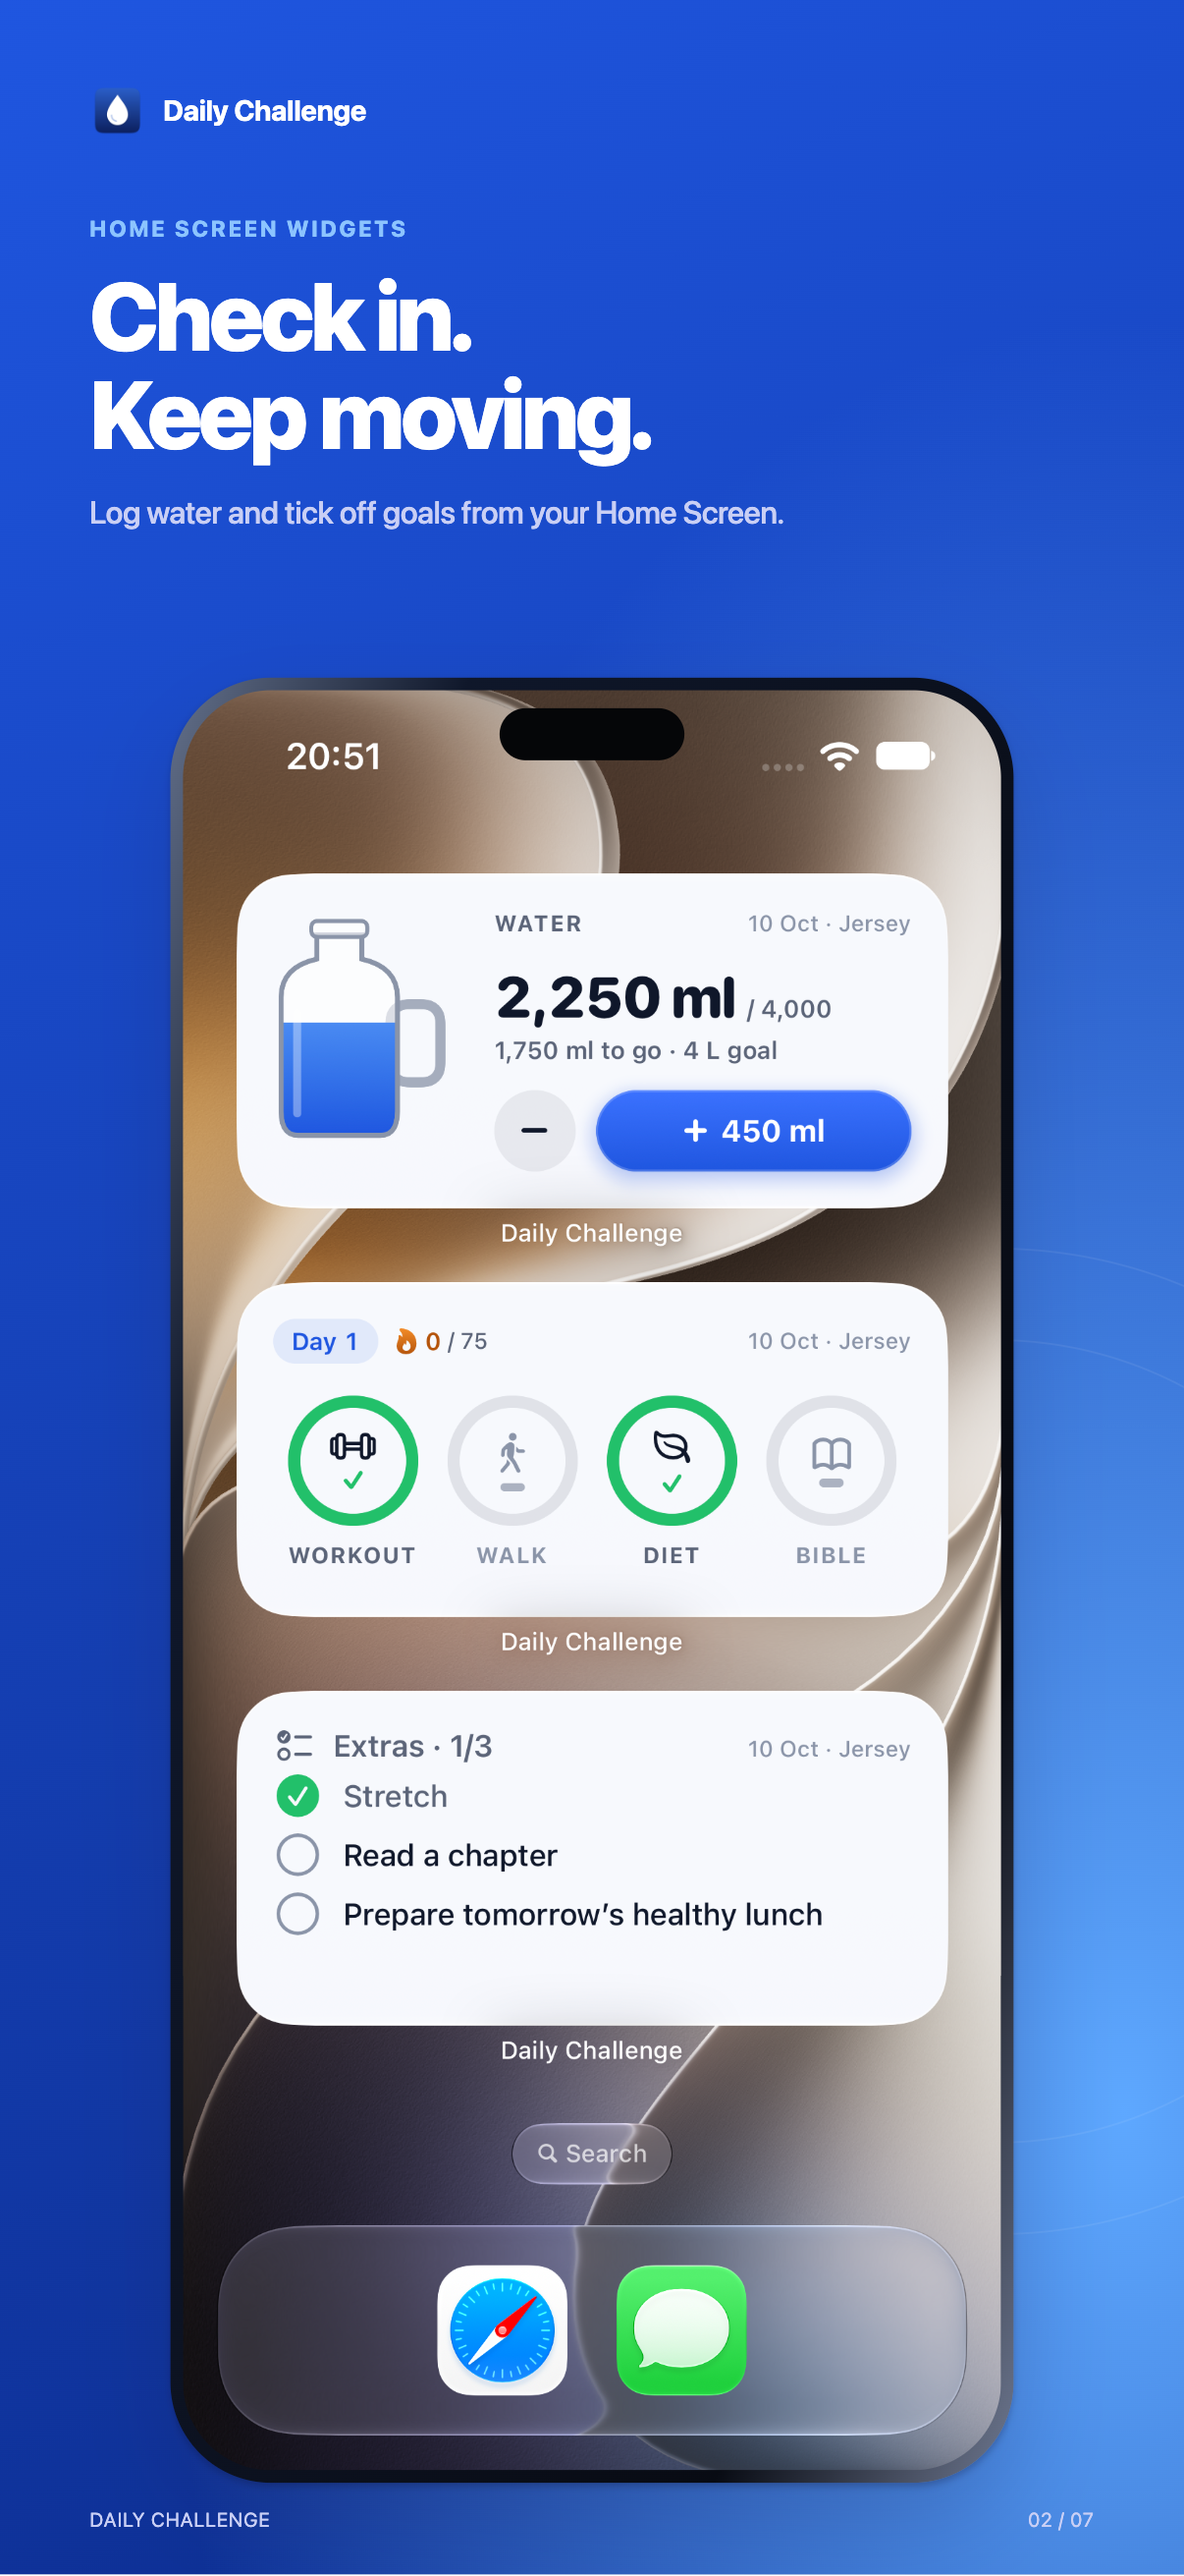
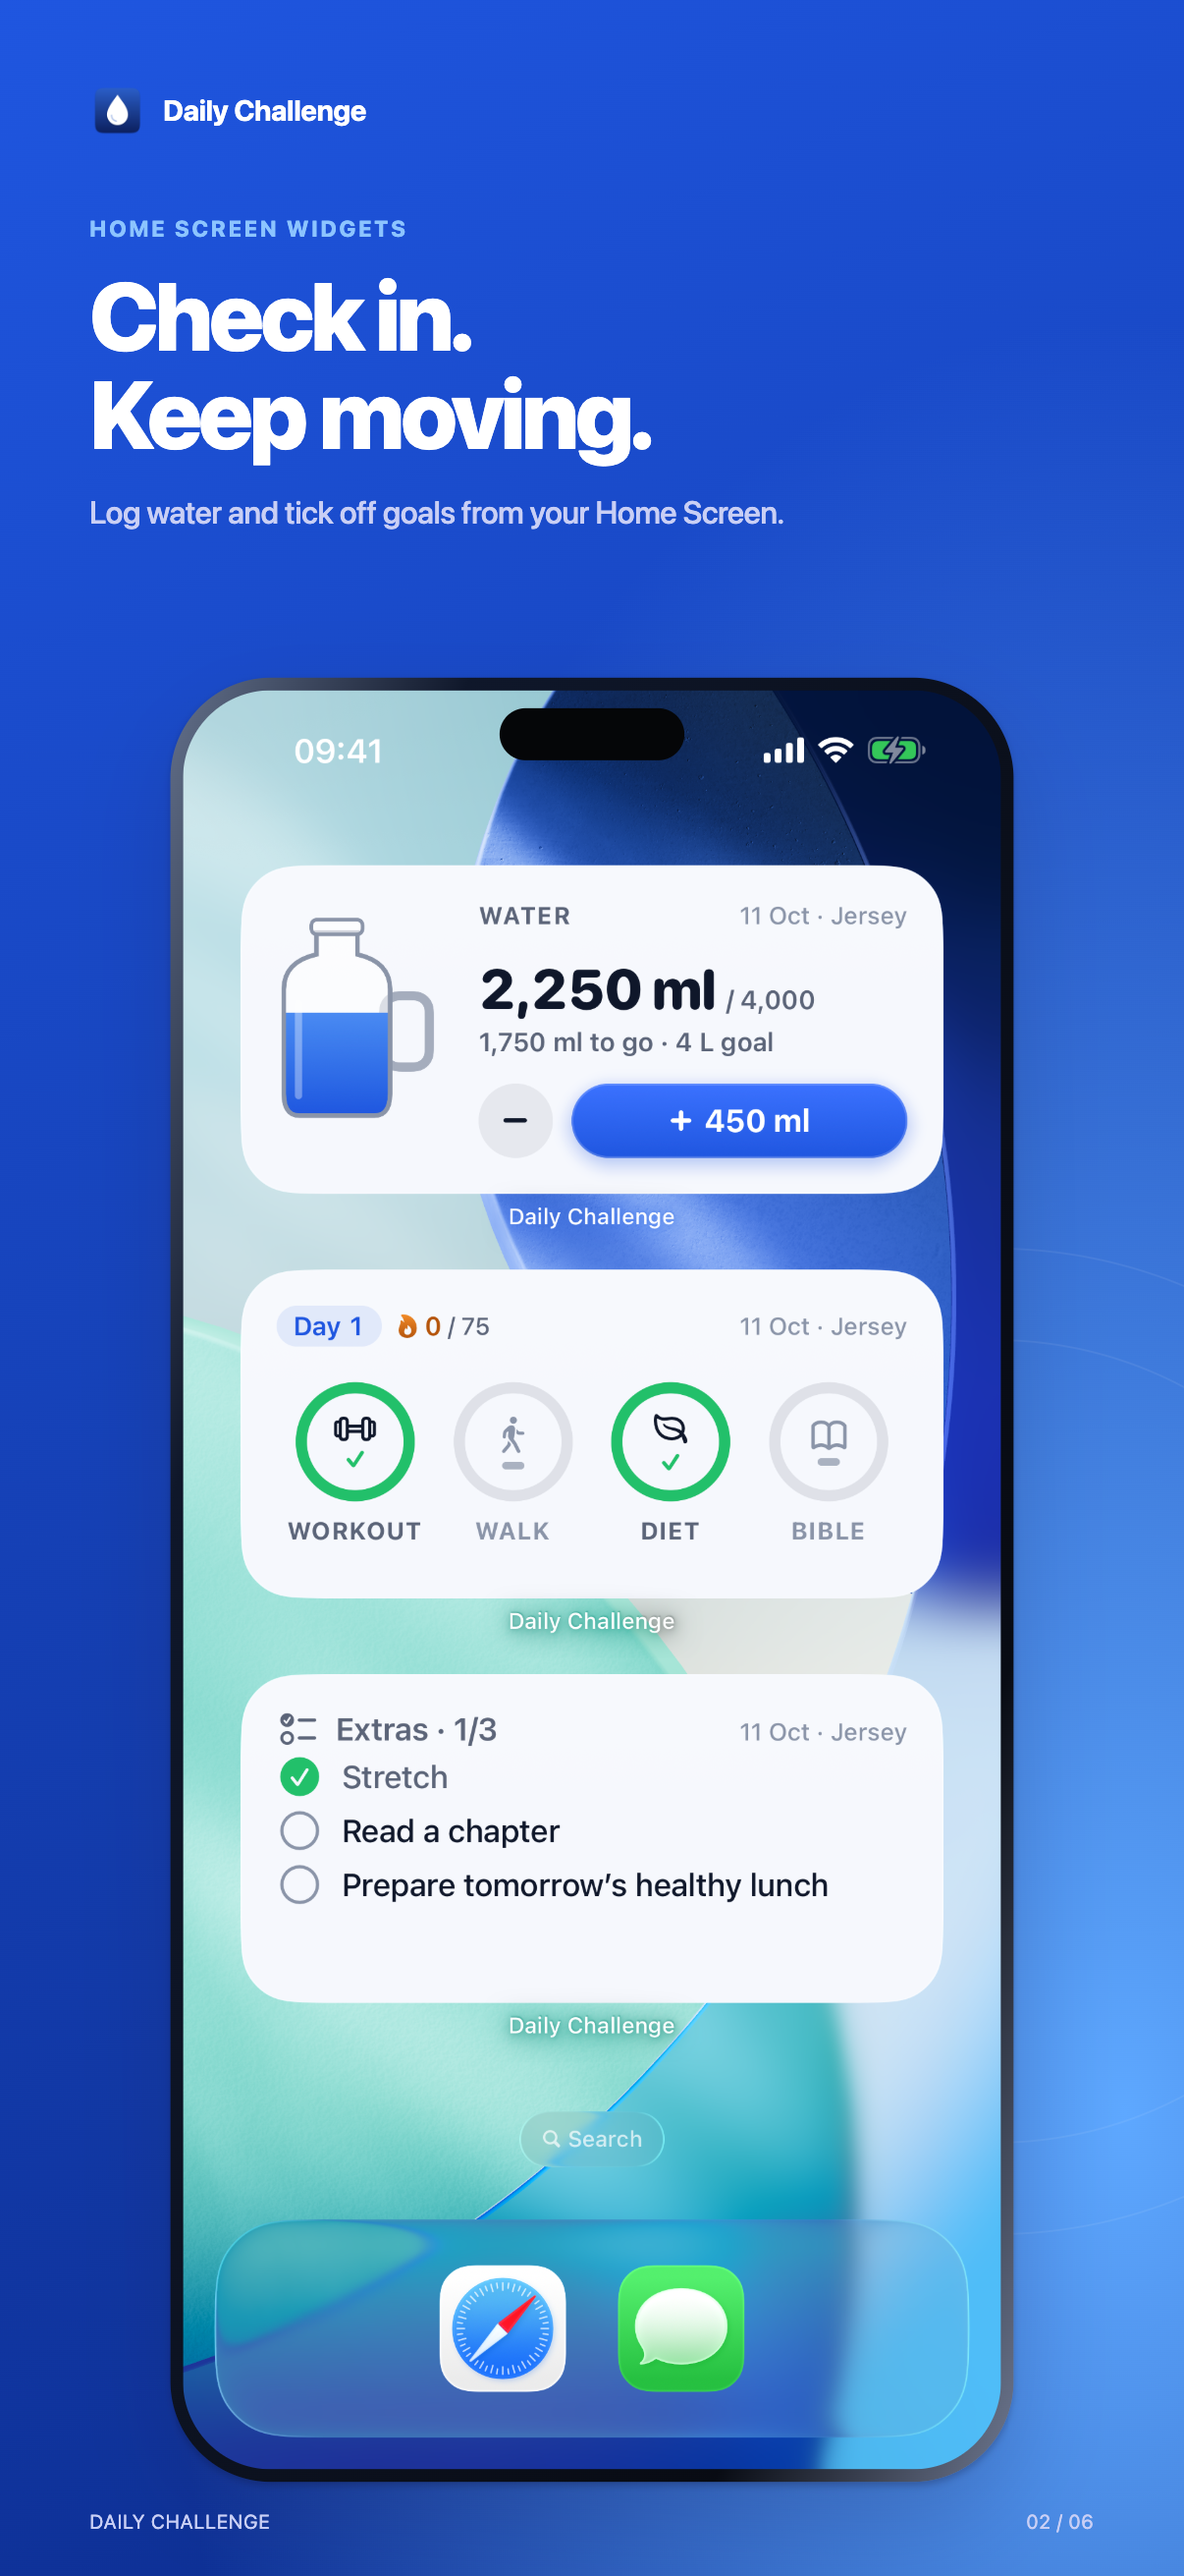
Finalise six App Store marketing frames from clean raw captures

Changed region(s): [[0.1534, 0.2471, 0.859, 0.9886], [0.8897, 0.9577, 0.9204, 0.9886]]

diff --git a/docs/screenshots/app-store/marketing/template.html b/docs/screenshots/app-store/marketing/template.html
@@ -29,7 +29,7 @@ h1 span:last-child { color:#1f56e0; }
 .zoom { position:absolute; left:90px; width:1140px; overflow:hidden; border:3px solid #fff; border-radius:54px; box-shadow:0 24px 80px #1e285a30; background:#f6f8fd; }
 .zoom img { position:absolute; width:__ZOOM_WIDTH__px; left:__ZOOM_LEFT__px; top:__ZOOM_TOP__px; max-width:none; }
 .zoom.water { top:1500px; height:670px; }
-.zoom.extras { top:1530px; height:700px; }
+.zoom.extras { top:1530px; height:665px; }
 .zoom-note { position:absolute; left:100px; top:2550px; font-size:31px; color:#5b6478; font-weight:600; }
 .footer { position:absolute; bottom:48px; left:100px; right:100px; display:flex; justify-content:space-between; font-size:22px; color:#5b6478; letter-spacing:1px; }
 .blue .footer,.dark .footer { color:#c9cff5; }
@@ -40,5 +40,5 @@ h1 span:last-child { color:#1f56e0; }
 <div class="copy"><div class="tag">__TAG__</div><h1>__HEADLINE__</h1><p class="detail">__DETAIL__</p></div>
 <div class="phone __LAYOUT__"><img src="__SOURCE__" alt="Daily Challenge fixture capture"><div class="island"></div></div>
 __ZOOM__
-<div class="footer"><span>DAILY CHALLENGE</span><span>__NUMBER__ / 07</span></div>
+<div class="footer"><span>DAILY CHALLENGE</span><span>__NUMBER__ / __TOTAL__</span></div>
 </div></html>

diff --git a/scripts/render-app-store-marketing.py b/scripts/render-app-store-marketing.py
@@ -46,7 +46,7 @@ def main():
             with Image.open(source) as im:
                 sw, sh = im.size
             zoom_width = 1140 / .92
-            zoom_top = -(sh / sw) * zoom_width * (.32 if frame['layout'] == 'water' else .55)
+            zoom_top = -(sh / sw) * zoom_width * (.285 if frame['layout'] == 'water' else .53)
             zoom = ''
             if frame['layout'] in ('water', 'extras'):
                 zoom = ('<div class="zoom ' + frame['layout'] + '"><img src="__SOURCE__" '
@@ -59,7 +59,7 @@ def main():
                       'ZOOM_TOP': zoom_top, 'TAG': html.escape(frame['tag']),
                       'HEADLINE': ''.join('<span>'+html.escape(s)+'</span>' for s in frame['headline']),
                       'DETAIL': html.escape(frame['detail']), 'SOURCE': source.as_uri(),
-                      'ICON': (ROOT/'Resources/AppIcon/icon_1024.png').as_uri(), 'NUMBER': f'{index:02}'}
+                      'ICON': (ROOT/'Resources/AppIcon/icon_1024.png').as_uri(), 'NUMBER': f'{index:02}', 'TOTAL': f'{len(frames):02}'}
             page = template
             # ZOOM first, because its fragment contains the SOURCE placeholder.
             page = page.replace('__ZOOM__', zoom)
@@ -88,7 +88,7 @@ def main():
                              'bounds': bounds.split('\nhelp')[0]})
             print(f'Rendered {size}/{frame["id"]}', flush=True)
         if not args.frame:
-            sheet = Image.new('RGB', (7*280, 660), '#f6f8fd')
+            sheet = Image.new('RGB', (len(frames)*280, 660), '#f6f8fd')
             draw = ImageDraw.Draw(sheet)
             for index, frame in enumerate(frames):
                 with Image.open(directory/(frame['id']+'.png')) as im:

diff --git a/docs/screenshots/app-store/marketing/README.md b/docs/screenshots/app-store/marketing/README.md
@@ -1,6 +1,6 @@
 # App Store marketing screenshots
 
-Seven English (UK) frames, in upload order. Use the numbered PNGs inside
+Six English (UK) frames, in upload order. Use the numbered PNGs inside
 `iphone-6.9/` (1320 × 2868) and `iphone-medium/` (1206 × 2622).
 Contact sheets are for review only; do not upload them as screenshots.
 
@@ -12,12 +12,11 @@ Contact sheets are for review only; do not upload them as screenshots.
 | 04 | Small extras. Less to forget. | Today's extras with the amber Late labels, with enlarged crop |
 | 05 | See your streak grow. | History calendar and streak information |
 | 06 | Your routine. Your look. | Today in Dark appearance |
-| 07 | Five goals. One good day. | All five requirements complete |
 
 The generic 75-day wording refers to this app's five fixed requirements. Extras
 are personal to-dos and do not count towards complete days or streaks. Captions
 make no user-count, testimonial, ranking, medical-result or award claim. The
-optional cross-device/sign-in frame is omitted: the seven frames focus on the
+optional cross-device/sign-in frame is omitted: the six frames focus on the
 phone's daily experience. The app is iPhone-only according to `iOS/project.yml`.
 
 ## Rebuild
@@ -54,7 +53,35 @@ background-height extension for its slightly different aspect ratio.
 
 ## Capture provenance and visual review
 
-Pending final raw-source swap and visual acceptance. See
-[research](../../../app-store-visuals-research.md) for references and the design
-rationale. Final review must cover every PNG in both sizes, not only this file
-or an isolated widget render.
+All inputs now come from `docs/screenshots/app-store/raw/` on `main` at
+`24fb3e5`: real iPhone 17 Pro Max simulator captures on iOS 26.4, synthetic
+fixture data, fixed 9:41 status bar and full signal/battery. The raw capture
+commands and caveats are in `docs/app-store-listing.md` and
+`iOS/scripts/capture-app-store-screenshots.sh`. No account, Keychain, network
+or notification permission was used for these captures. The placed widget
+capture comes from SpringBoard, not an in-process widget render.
+
+Each frame is an independent feature example. The app examples use Day 12,
+while the widget example uses Day 1; their dates differ because the app fixture
+clock is fixed and WidgetKit uses the simulator's date. The gallery makes no
+claim that these examples are one continuous session or a synchronised account.
+The offline fixture's Local only label remains visible and is not relabelled as
+Synced. See [research](../../../app-store-visuals-research.md) for references
+and the design rationale.
+
+Final checks passed on 11 October 2026:
+
+- All twelve PNGs were inspected individually and in both contact sheets at
+  thumbnail size. Headlines, rings, jug, controls and Late labels are legible;
+  the water and extras crops preserve their complete focal content. The native
+  History activity list continues behind its tab bar, as in the raw capture.
+- DOM checks passed for caption overflow and canvas bounds. Export checks passed
+  for the exact dimensions, opaque RGB pixels, six frames per size and all input
+  hashes recorded in `render-manifest.json`.
+- Caption wording and punctuation checks passed. The renderer's Python syntax
+  and `git diff --check` passed. No application code changes are part of this
+  delivery.
+
+The final set has six frames. It covers all required features with the raw
+captures now available on main. Re-render and repeat the visual review whenever
+captions, inputs or layout change.

diff --git a/docs/app-store-visuals-research.md b/docs/app-store-visuals-research.md
@@ -1,6 +1,6 @@
 # Daily Challenge - App Store screenshot research
 
-Checked 11 October 2026. Deliverable: seven English (UK) marketing screenshots,
+Checked 11 October 2026. Deliverable: six English (UK) marketing screenshots,
 with the app's real fixture UI. These are screenshot-gallery assets, not the new
 product-page header or search-result creative assets.
 
@@ -93,7 +93,7 @@ asset formats. This task produces only the requested screenshot gallery.
 A pale blue editorial canvas, large benefit-led headline and a single real app
 capture. The first frame makes the fixed five-goal challenge understandable;
 the second shows quick Home Screen check-ins. Later frames build the story:
-water, personal extras, completed-day history, appearance and daily completion.
+water, personal extras, completed-day history and appearance.
 This adapts the strong caption/UI hierarchy seen in Habitify, WaterMinder and
 Better while preserving Daily Challenge's glass surfaces, jug, rings and icon.
 It does not imitate their UI or claim their results.
